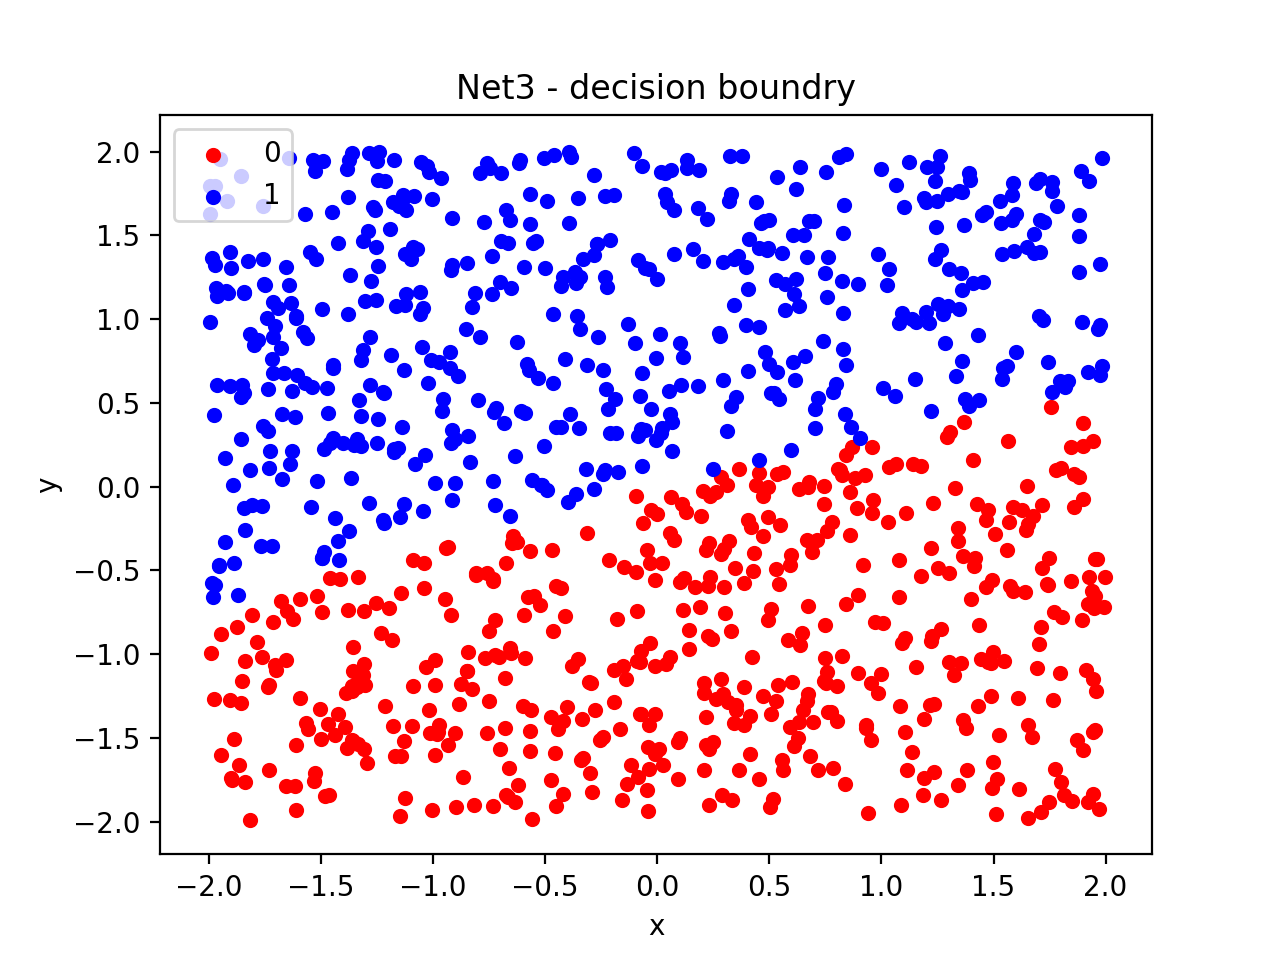
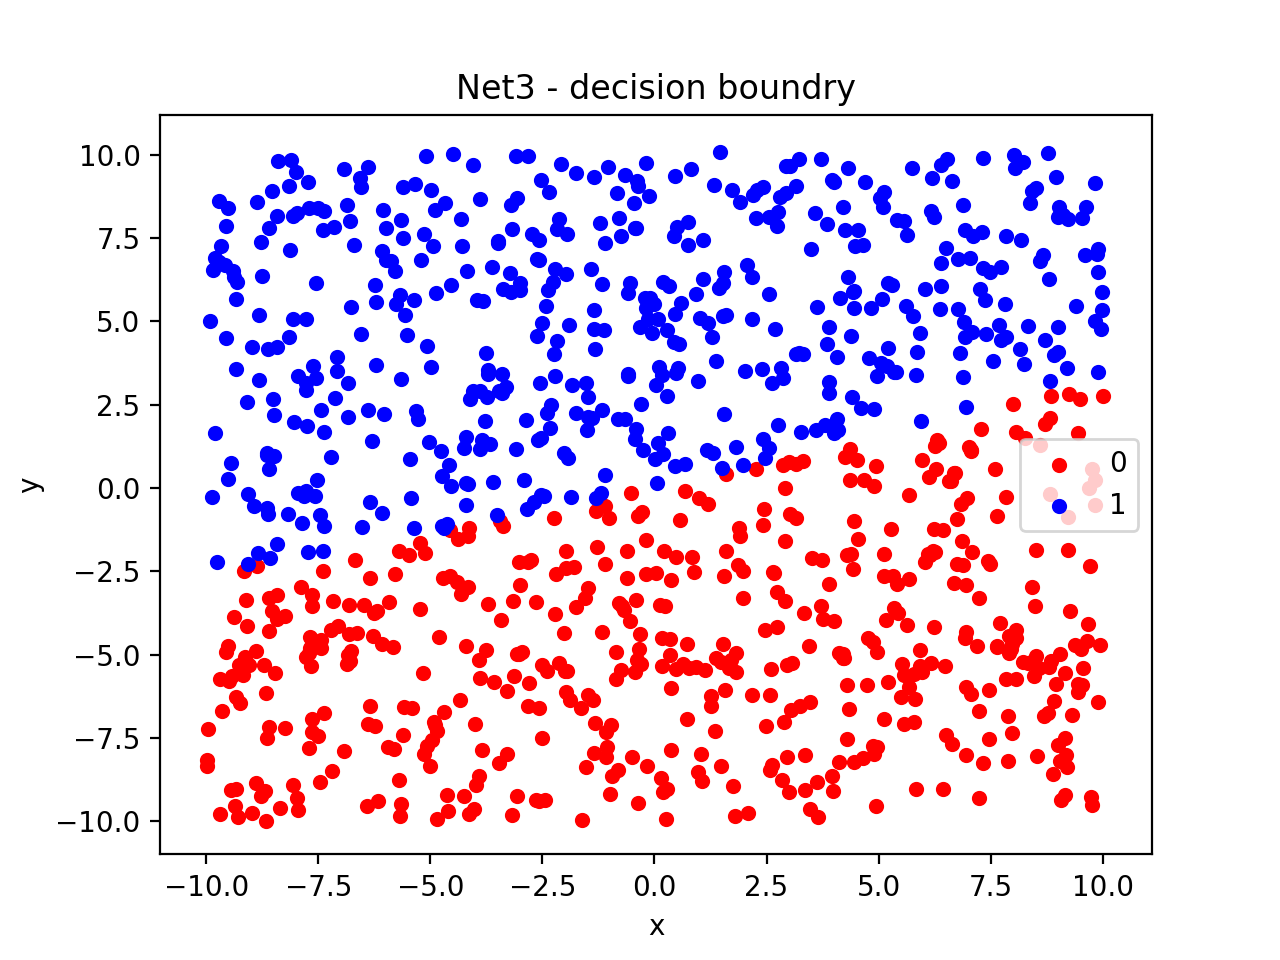
creat circular and parabolic dataset & n_samples=10k

diff --git a/utils.py b/utils.py
@@ -9,6 +9,7 @@ from sklearn.datasets.samples_generator import make_blobs
 from sklearn.cluster import KMeans
 from random import shuffle
 import numpy as np
+import math
 
 class Net4(nn.Module):
 	def __init__(self):
@@ -92,6 +93,113 @@ def generate_uniform_linear_dataset(n_samples=10, low=-1.0, high=1.1, plot_db=Fa
 
 	return resulting_labeled_points
 
+# generate a uniform parabolic dataset
+def generate_uniform_parabloic_dataset(n_samples=10, low=-1.0, high=1.1, plot_db=False):
+	# create N samples, uniformly distributed between low and high
+	x_samples    = uniform(low=low, high=high, size=(n_samples,))
+	y_samples    = uniform(low=low, high=high, size=(n_samples,))
+	points = np.array([list(x) for x in zip(x_samples, y_samples)])
+
+	#linear function y=a(x^2) + c
+	a = .45
+	c = 9.7
+
+	f = lambda x:  (a*(x**2)) - c
+	
+	# The labels for the clusters (positive integers)
+	cluster1_label = 0
+	cluster2_label = 1
+
+	cluster1_labeled_points = []
+	cluster2_labeled_points = []
+	
+	cluster1_x = []
+	cluster1_y = []
+	
+	cluster2_x = []
+	cluster2_y = []
+
+	for point in points:
+		x, y = point
+		diff = f(x) - y
+
+		if diff > 0:
+			point_tensor_cluster1 = (torch.from_numpy(point).float(), cluster1_label)
+			cluster1_labeled_points.append(point_tensor_cluster1)
+			cluster1_x.append(x)
+			cluster1_y.append(y)
+		else:
+			point_tensor_cluster2 = (torch.from_numpy(point).float(), cluster2_label)
+			cluster2_labeled_points.append(point_tensor_cluster2)
+			cluster2_x.append(x)
+			cluster2_y.append(y)
+
+	resulting_labeled_points = cluster1_labeled_points + cluster2_labeled_points
+
+	shuffle(resulting_labeled_points)
+	
+	if plot_db:
+		plt.scatter(cluster1_x, cluster1_y, c='blue')
+		plt.scatter(cluster2_x, cluster2_y, c='red')
+		plt.title('Parabolic Linear Dataset')
+		plt.show()
+
+	return resulting_labeled_points
+
+# generate a uniform circular dataset
+def generate_uniform_circular_dataset(n_samples=10, radius=2, low=-1.0, high=1.1, plot_db=False):
+	# create N samples, uniformly distributed between low and high
+	x_samples    = uniform(low=low, high=high, size=(n_samples,))
+	y_samples    = uniform(low=low, high=high, size=(n_samples,))
+	points = np.array([list(x) for x in zip(x_samples, y_samples)])
+
+	#circule function x^2+y^2
+	diameter = radius*radius
+	f_positive = lambda x: math.sqrt(diameter - (x**2))
+	f_negative = lambda x: -math.sqrt(diameter - (x**2))
+	
+	# The labels for the clusters (positive integers)
+	cluster1_label = 0
+	cluster2_label = 1
+
+	cluster1_labeled_points = []
+	cluster2_labeled_points = []
+	
+	cluster1_x = []
+	cluster1_y = []
+	
+	cluster2_x = []
+	cluster2_y = []
+
+	for point in points:
+		x, y = point
+
+
+		diff = lambda x : f_positive(x) - y if y > 0 else y - f_negative(x)
+
+		if abs(x) <= radius and diff(x) > 0:
+			point_tensor_cluster1 = (torch.from_numpy(point).float(), cluster1_label)
+			cluster1_labeled_points.append(point_tensor_cluster1)
+			cluster1_x.append(x)
+			cluster1_y.append(y)
+		else:
+			point_tensor_cluster2 = (torch.from_numpy(point).float(), cluster2_label)
+			cluster2_labeled_points.append(point_tensor_cluster2)
+			cluster2_x.append(x)
+			cluster2_y.append(y)
+
+	resulting_labeled_points = cluster1_labeled_points + cluster2_labeled_points
+
+	shuffle(resulting_labeled_points)
+	
+	if plot_db:
+		plt.scatter(cluster1_x, cluster1_y, c='blue')
+		plt.scatter(cluster2_x, cluster2_y, c='red')
+		plt.title('Circular Linear Dataset')
+		plt.show()
+
+	return resulting_labeled_points
+
 # generate a linear dataset for sampling with two centers (using numpy's uniform() )
 # and return as a DataLoader
 def generate_sample_linear_dataset(n_samples=1000, centers=2, low=-1.0, high=1.1):
@@ -125,7 +233,7 @@ def plot_boundry(NN, N=1000, low=-2, high=2, sample_loader=None):
 
 		sample_loader = torch.utils.data.DataLoader(samples)
 
-	# feed it to the neural net
+	# feed it to the neural net, and decide the points classes
 	labels = []
 	for x in sample_loader:
 		y = NN(x)
@@ -138,7 +246,7 @@ def plot_boundry(NN, N=1000, low=-2, high=2, sample_loader=None):
 	colors = {0:'red', 1:'blue'}
 	fig, ax = plt.subplots()
 	grouped = df.groupby('label')
-	ax.set_title('Net{} - decision boundry'.format(str(NN.id)))
+	ax.set_title('Net{} - decision boundary'.format(str(NN.id)))
 
 	for key, group in grouped:
 	    group.plot(ax=ax, kind='scatter', x='x', y='y', label=key, color=colors[key])

diff --git a/main.py b/main.py
@@ -7,12 +7,13 @@ import torch.utils.data
 import torch.nn.functional as F
 from random import shuffle
 from utils import plot_boundry, generate_linear_dataset, \
-generate_sample_linear_dataset, generate_uniform_linear_dataset, plot_loss
+generate_sample_linear_dataset, generate_uniform_linear_dataset, \
+plot_loss, generate_uniform_circular_dataset, generate_uniform_parabloic_dataset
 from numpy.random import uniform
 
 learning_rate = 0.005
 epochs = 15
-n_samples = 1000
+n_samples = 10000
 batch_size = 64
 
 SHOW_TRAIN_LOGS = False
@@ -225,19 +226,14 @@ def main(net, train_loader, test_loader, sample_loader):
 
 	print('Train Accuracy: {} \nTest Accuracy: {}'.format(training_accuracy, test_accuracy))
 	plot_loss(net, training_loss_array, 'training', test_loss_array, 'test')
-	plot_boundry(net, sample_loader=sample_loader)
+	plot_boundry(net, N=n_samples, sample_loader=sample_loader, low=-10, high=10.1)
 
 
 if __name__ == '__main__':
 	
 	# generate the dataset, shuffle it
-	dataset_data = generate_uniform_linear_dataset(n_samples=n_samples, plot_db=False)
-
-	train_test_divide = int(len(dataset_data) * .8)
-
-	# partition into train and test sets
-	train_dataset = dataset_data[:train_test_divide]
-	test_dataset  = dataset_data[train_test_divide:]
+	train_dataset = generate_uniform_circular_dataset(n_samples=n_samples, radius=5.5, low=-10.0, high=10.1, plot_db=True)
+	test_dataset  = generate_uniform_circular_dataset(n_samples=n_samples, radius=5.5, low=-10.0, high=10.1, plot_db=True)
 
 	train_loader = torch.utils.data.DataLoader(train_dataset, batch_size=batch_size, shuffle=True)
 	test_loader  = torch.utils.data.DataLoader(test_dataset, batch_size=batch_size, shuffle=True)
